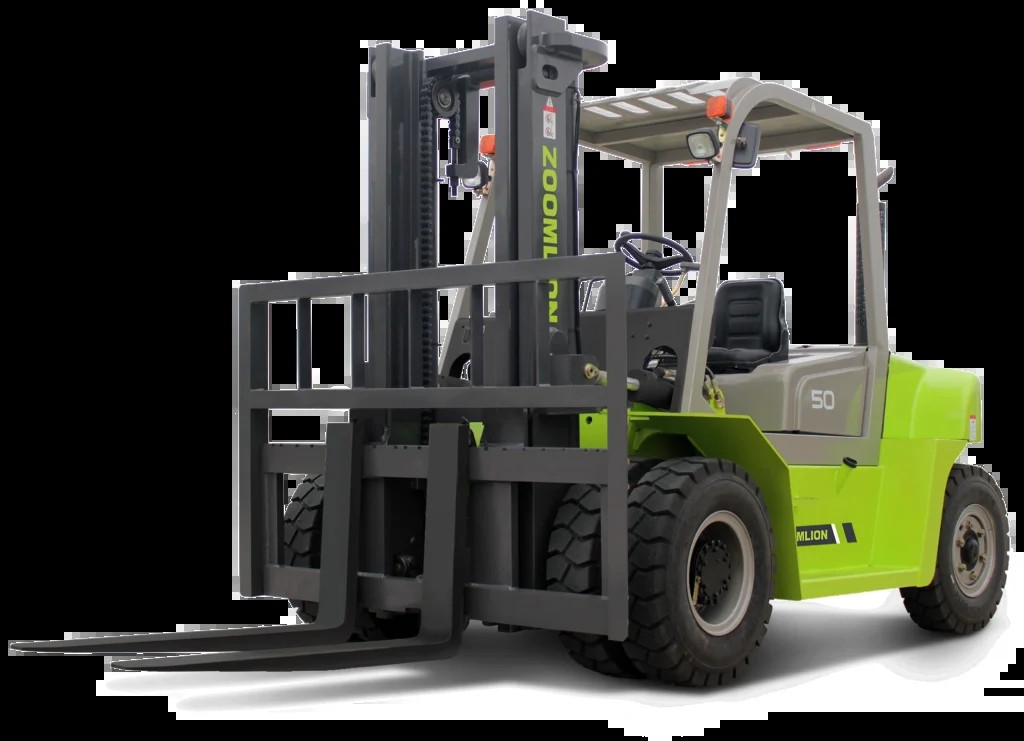
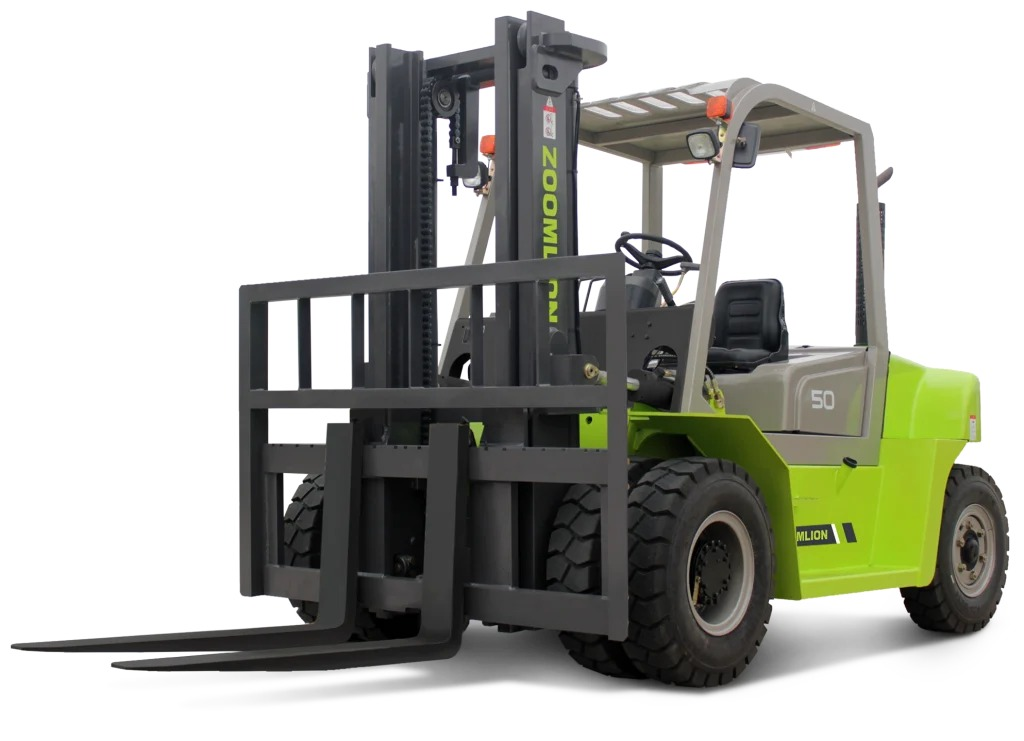
fix: hero boşluğu, kırık ürün linkleri, forklift görseli; tüm sitelerde 2. telefon hattı
- Hero: grid items-center -> items-start + üst padding azaltıldı (menü
  altında büyük boş alan kalma sorunu düzeltildi)
- Ürün kartları /${slug} gibi var olmayan sayfalara linkleniyordu (404);
  artık /urunler#slug çapa linkine yönleniyor, gerçek iç linkleme sağlandı
  (HizmetlerBolumu ve Hakkımızda sayfasına da CTA linkleri eklendi)
- pt-forklift.jpg: kaynak WebP şeffaf zemini JPEG'e aktarılırken siyah
  dolgu olmuştu, temiz beyaz zeminle yeniden oluşturuldu
- Tüm sitelerde (paylaşımlı tema + 9 bespoke tema + TicariCerceve fallback)
  iki sabit Artı Platform hattı (0530 551 89 61 + 0532 172 89 43) birlikte
  gösteriliyor; bandirmamanlift.net'teki yanlış telefon (0533) düzeltildi

diff --git a/src/components/temalar/canakkale.tsx b/src/components/temalar/canakkale.tsx
@@ -1,6 +1,7 @@
 import Image from "next/image";
 import { hostBloglari } from "@/lib/blog";
 import type { SiteIcerik } from "@/lib/siteler";
+import { ikinciTelefon } from "@/lib/siteler";
 import { TemaForm } from "./tema-form";
 import type { TemaModulu } from "./tipler";
 
@@ -18,7 +19,7 @@ function Cerceve({ site, aktif = "", children }: Parameters<TemaModulu["Cerceve"
         <link rel="stylesheet" href="https://fonts.googleapis.com/css2?family=Inter:wght@400;500;600;700&family=Montserrat:wght@600;700;800&display=swap" />
         <header className="sticky top-0 z-50 border-b-2 border-[#936e6a]/20 bg-[#f8f9fa]/80 shadow-sm backdrop-blur-md"><div className="mx-auto flex max-w-[1280px] items-center justify-between px-4 py-4 md:px-6"><a href="/" className="flex items-center gap-3"><Image src="/media/logo/logo.png" alt={`${site.h1} logosu`} width={145} height={40} className="h-10 w-auto object-contain" /><span className="hidden font-['Montserrat'] text-[19px] font-extrabold text-[#1A1C1E] sm:block">Çanakkale Platform</span></a><nav className="hidden items-center gap-1 lg:flex">{nav.map(([h, e]) => <a key={h} href={h} className={`border-b-2 px-4 py-3 text-[14px] font-bold ${aktif === h ? "border-[#ed1c24] text-[#bb0013]" : "border-transparent text-[#595c5f] hover:text-[#1A1C1E]"}`}>{e}</a>)}</nav><a href={`tel:${site.telefon}`} className="rounded-[2px] border-b-2 border-[#93000d] bg-[#ed1c24] px-5 py-3 text-[14px] font-bold text-white">Saha Hattı</a></div></header>
         <main>{children}</main>
-        <footer className="border-t-4 border-[#ed1c24] bg-[#1A1C1E] px-6 py-14 text-white"><div className="mx-auto grid max-w-[1280px] gap-10 md:grid-cols-3"><div><h2 className="font-['Montserrat'] text-[24px] font-bold">Çanakkale Platform</h2><p className="mt-4 text-[14px] leading-6 text-[#c4c7ca]">{site.uzmanlik} için endüstriyel kiralama ve sevkiyat planı.</p></div><div><h3 className="font-bold uppercase tracking-[0.1em] text-[#ed1c24]">Hızlı Erişim</h3><div className="mt-4 grid grid-cols-2 gap-3 text-[14px]">{nav.slice(1).map(([h, e]) => <a key={h} href={h}>{e}</a>)}<a href={site.anaSite.url}>{site.anaSite.ad}</a></div></div><div><h3 className="font-bold uppercase tracking-[0.1em] text-[#ed1c24]">İletişim</h3><a className="mt-4 flex gap-3" href={`tel:${site.telefon}`}><Ikon ad="telefon" />{site.telefonGosterim}</a><a className="mt-3 flex gap-3 break-all" href={`mailto:${site.eposta}`}><Ikon ad="posta" />{site.eposta}</a></div></div><div className="mx-auto mt-8 max-w-7xl border-t border-white/10 pt-5 text-center text-xs text-white/50"><a href="https://www.saygitech.com" target="_blank" rel="noopener noreferrer" className="hover:text-white/80">Web Yazılım ve Tasarım: SAYGITECH</a></div></footer>
+        <footer className="border-t-4 border-[#ed1c24] bg-[#1A1C1E] px-6 py-14 text-white"><div className="mx-auto grid max-w-[1280px] gap-10 md:grid-cols-3"><div><h2 className="font-['Montserrat'] text-[24px] font-bold">Çanakkale Platform</h2><p className="mt-4 text-[14px] leading-6 text-[#c4c7ca]">{site.uzmanlik} için endüstriyel kiralama ve sevkiyat planı.</p></div><div><h3 className="font-bold uppercase tracking-[0.1em] text-[#ed1c24]">Hızlı Erişim</h3><div className="mt-4 grid grid-cols-2 gap-3 text-[14px]">{nav.slice(1).map(([h, e]) => <a key={h} href={h}>{e}</a>)}<a href={site.anaSite.url}>{site.anaSite.ad}</a></div></div><div><h3 className="font-bold uppercase tracking-[0.1em] text-[#ed1c24]">İletişim</h3><a className="mt-4 flex gap-3" href={`tel:${site.telefon}`}><Ikon ad="telefon" />{site.telefonGosterim}</a>{ikinciTelefon(site) && (<a className="mt-3 flex gap-3" href={`tel:${ikinciTelefon(site)!.telefon}`}><Ikon ad="telefon" />{ikinciTelefon(site)!.telefonGosterim}</a>)}<a className="mt-3 flex gap-3 break-all" href={`mailto:${site.eposta}`}><Ikon ad="posta" />{site.eposta}</a></div></div><div className="mx-auto mt-8 max-w-7xl border-t border-white/10 pt-5 text-center text-xs text-white/50"><a href="https://www.saygitech.com" target="_blank" rel="noopener noreferrer" className="hover:text-white/80">Web Yazılım ve Tasarım: SAYGITECH</a></div></footer>
         <a href={`tel:${site.telefon}`} aria-label="Çanakkale Platform'u ara" className="fixed bottom-6 right-6 z-40 flex h-14 w-14 items-center justify-center rounded-[8px] bg-[#ed1c24] text-white shadow-xl"><Ikon ad="telefon" /></a>
     </div>;
 }
@@ -26,6 +27,6 @@ function AnaSayfa({ site }: { site: SiteIcerik }) { return <><section className=
 function Baslik({ ust, baslik, metin }: { ust: string; baslik: string; metin?: string }) { return <section className="relative overflow-hidden bg-[#1A1C1E] px-6 py-20 text-white"><div className="absolute right-0 top-0 h-full w-1/3 -skew-x-12 bg-[#ed1c24]/15" /><div className="relative mx-auto max-w-[1280px]"><p className="text-[13px] font-bold tracking-[0.14em] text-[#ffb4ab]">{ust}</p><h1 className="mt-4 max-w-4xl font-['Montserrat'] text-[42px] font-extrabold leading-[50px]">{baslik}</h1>{metin && <p className="mt-5 max-w-3xl text-[18px] leading-8 text-[#c4c7ca]">{metin}</p>}</div></section>; }
 function Hakkimizda({ site }: { site: SiteIcerik }) { return <main className="mx-auto w-full max-w-[1280px] px-6 py-24"><section className="grid items-center gap-12 lg:grid-cols-2"><div><span className="text-[12px] font-bold tracking-[0.08em] text-[#ed1c24]">HAKKIMIZDA</span><h1 className="mt-4 font-['Montserrat'] text-[48px] font-extrabold leading-[56px] text-[#1A1C1E]">Endüstriyel Güven ve Yerel Tecrübe.</h1><p className="mt-6 text-[18px] leading-8 text-[#5e3f3c]">{site.paragraflar[0]}</p>{site.paragraflar.slice(1).map((p) => <p key={p} className="mt-5 leading-7 text-[#5e3f3c]">{p}</p>)}<ul className="mt-7 grid gap-4 sm:grid-cols-2">{site.hizmetler.map((h) => <li key={h} className="flex gap-3 border-l-4 border-[#ed1c24] bg-[#f3f4f5] p-4 font-semibold"><Ikon ad="onay" className="h-5 w-5 text-[#ed1c24]" />{h}</li>)}</ul></div><div className="relative min-h-[600px] overflow-hidden rounded-[4px]"><Image src="/media/guvenli-calisma.png" alt="Çanakkale güvenli saha operasyonu" fill sizes="50vw" className="object-cover" /><div className="absolute bottom-0 left-0 right-0 border-t-4 border-[#ed1c24] bg-[#1A1C1E] p-6 text-white"><strong className="font-['Montserrat'] uppercase">Planlı Operasyon • Doğrulanmış Kapsam</strong></div></div></section></main>; }
 function Urunler() { return <main className="mx-auto w-full max-w-[1280px] px-6 py-12"><header className="mb-12 max-w-4xl"><span className="text-[12px] font-bold tracking-[0.08em] text-[#ed1c24]">ÜRÜNLERİMİZ</span><h1 className="mt-4 font-['Montserrat'] text-[48px] font-extrabold leading-[56px] text-[#1A1C1E]">Saha Odaklı Endüstriyel Kiralama Çözümleri</h1></header><section className="grid grid-cols-1 gap-6 md:grid-cols-12">{urunler.map((u, i) => <article key={u.baslik} className={`group flex border border-[#1A1C1E] bg-white transition-colors hover:border-[#ed1c24] ${i === 0 ? "flex-col md:col-span-8 md:flex-row" : i === 1 ? "flex-col md:col-span-4" : "flex-col md:col-span-12 md:flex-row-reverse"}`}><div className={`relative ${i === 1 ? "h-64" : "min-h-[340px] flex-1"}`}><Image src={u.gorsel} alt={u.baslik} fill sizes={i === 1 ? "33vw" : "60vw"} className="object-cover" /></div><div className="flex flex-1 flex-col justify-center p-8"><span className="font-['JetBrains_Mono'] text-[12px] font-bold text-[#ed1c24]">0{i + 1} / SAHA EKİPMANI</span><h2 className="mt-3 font-['Montserrat'] text-[24px] font-bold text-[#1A1C1E] md:text-[32px]">{u.baslik}</h2><p className="mt-4 leading-7 text-[#5e3f3c]">{u.metin}</p><div className="mt-6 grid grid-cols-2 gap-4 border-y border-[#d9dadb] py-4 font-['JetBrains_Mono'] text-[12px]"><span>YÜKSEKLİK<br /><b>SAHAYA GÖRE</b></span><span>UYGUNLUK<br /><b>TEKLİFTE TEYİT</b></span></div><a href={`/${u.slug}`} className="mt-7 inline-flex w-fit rounded-[2px] bg-[#ed1c24] px-7 py-4 font-bold text-white">Detay Sayfası</a></div></article>)}</section></main>; }
-function Iletisim({ site }: { site: SiteIcerik }) { const bolgeler = site.bolge.split(",").map((x) => x.trim()); return <><Baslik ust="İLETİŞİM" baslik="Saha İletişim & Talep" metin="Teknik görev bilgilerini paylaşın; makine, nakliye ve saha giriş kapsamını netleştirelim." /><section className="px-6 py-24"><div className="mx-auto grid max-w-[1280px] gap-10 lg:grid-cols-[1fr_1.5fr]"><aside className="rounded-[4px] bg-[#1A1C1E] p-8 text-white"><h2 className="font-['Montserrat'] text-[24px] font-bold">Acil Saha Destek & Kiralama</h2><a className="mt-8 flex gap-3 text-[20px]" href={`tel:${site.telefon}`}><Ikon ad="telefon" />{site.telefonGosterim}</a><a className="mt-5 flex gap-3 break-all" href={`mailto:${site.eposta}`}><Ikon ad="posta" />{site.eposta}</a><p className="mt-5 flex gap-3 text-[#c4c7ca]"><Ikon ad="konum" />{site.bolge}</p><p className="mt-5 flex gap-3 text-[#c4c7ca]"><Ikon ad="saat" />Hafta içi 08.00–18.00</p></aside><div className="rounded-[4px] border border-[#d9dadb] bg-white p-8"><h2 className="mb-6 font-['Montserrat'] text-[26px] font-bold">Saha İhtiyaç Formu</h2><TemaForm eposta={site.eposta} konu={`Çanakkale Platform Teklif Talebi — ${site.h1}`} opsiyonlar={bolgeler} cls={{etiket:"mb-2 block text-[14px] font-bold text-[#1A1C1E]",alan:"w-full rounded-[2px] border border-[#936e6a] bg-[#f8f9fa] p-3 outline-none focus:border-[#ed1c24]",buton:"w-full rounded-[2px] bg-[#ed1c24] px-8 py-4 font-bold text-white",izgara:"grid gap-5 md:grid-cols-2"}} /></div></div></section></>; }
+function Iletisim({ site }: { site: SiteIcerik }) { const bolgeler = site.bolge.split(",").map((x) => x.trim()); return <><Baslik ust="İLETİŞİM" baslik="Saha İletişim & Talep" metin="Teknik görev bilgilerini paylaşın; makine, nakliye ve saha giriş kapsamını netleştirelim." /><section className="px-6 py-24"><div className="mx-auto grid max-w-[1280px] gap-10 lg:grid-cols-[1fr_1.5fr]"><aside className="rounded-[4px] bg-[#1A1C1E] p-8 text-white"><h2 className="font-['Montserrat'] text-[24px] font-bold">Acil Saha Destek & Kiralama</h2><a className="mt-8 flex gap-3 text-[20px]" href={`tel:${site.telefon}`}><Ikon ad="telefon" />{site.telefonGosterim}</a>{ikinciTelefon(site) && (<a className="mt-3 flex gap-3 text-[18px]" href={`tel:${ikinciTelefon(site)!.telefon}`}><Ikon ad="telefon" />{ikinciTelefon(site)!.telefonGosterim}</a>)}<a className="mt-5 flex gap-3 break-all" href={`mailto:${site.eposta}`}><Ikon ad="posta" />{site.eposta}</a><p className="mt-5 flex gap-3 text-[#c4c7ca]"><Ikon ad="konum" />{site.bolge}</p><p className="mt-5 flex gap-3 text-[#c4c7ca]"><Ikon ad="saat" />Hafta içi 08.00–18.00</p></aside><div className="rounded-[4px] border border-[#d9dadb] bg-white p-8"><h2 className="mb-6 font-['Montserrat'] text-[26px] font-bold">Saha İhtiyaç Formu</h2><TemaForm eposta={site.eposta} konu={`Çanakkale Platform Teklif Talebi — ${site.h1}`} opsiyonlar={bolgeler} cls={{etiket:"mb-2 block text-[14px] font-bold text-[#1A1C1E]",alan:"w-full rounded-[2px] border border-[#936e6a] bg-[#f8f9fa] p-3 outline-none focus:border-[#ed1c24]",buton:"w-full rounded-[2px] bg-[#ed1c24] px-8 py-4 font-bold text-white",izgara:"grid gap-5 md:grid-cols-2"}} /></div></div></section></>; }
 function BlogListe({ site }: { site: SiteIcerik }) { const yazilar = hostBloglari(site.host); const adimlar = ["İşi Geometrik Olarak Tarif Edin", "Makine Sınıfını İşin Hareketine Göre Seçin", "Zemin Uygunluğunu Önden Teyit Edin"]; return <main className="pb-24"><section className="mx-auto grid max-w-[1280px] items-center gap-6 px-6 py-12 md:grid-cols-12 md:py-24"><div className="md:col-span-7"><span className="text-[12px] font-bold tracking-[0.08em] text-[#ed1c24]">BLOG VE REHBER</span><h1 className="mt-4 font-['Montserrat'] text-[36px] font-extrabold leading-tight text-[#1A1C1E] md:text-[48px]">Saha Planlaması, Güvenlik ve Makine Seçimi</h1><p className="mt-5 max-w-2xl text-[18px] leading-7 text-[#5e3f3c]">Çanakkale&apos;de doğru platform sınıfı ve güvenli saha planı için karar rehberi.</p></div><div className="relative min-h-[360px] md:col-span-5"><Image src={yazilar[0]?.gorsel ?? "/media/saha-hero.png"} alt={yazilar[0]?.gorselAlt ?? "Çanakkale saha rehberi"} fill sizes="40vw" className="object-cover" /></div></section><section className="border-y border-[#936e6a]/20 bg-[#f3f4f5] py-16"><div className="mx-auto max-w-[1280px] px-6"><h2 className="inline-block border-b-2 border-[#1A1C1E] pb-4 font-['Montserrat'] text-[32px] font-bold text-[#1A1C1E]">Karar Rehberi</h2><div className="mt-10 space-y-0">{adimlar.map((a, i) => { const y = yazilar[i]; return <article key={a} className="grid gap-6 border-b border-[#936e6a]/20 py-8 md:grid-cols-[100px_1fr_220px]"><span className="font-['Montserrat'] text-[48px] font-extrabold text-[#e1e3e4]">0{i + 1}</span><div><h3 className="font-['Montserrat'] text-[18px] font-semibold uppercase tracking-tight text-[#1A1C1E]">{a}</h3><p className="mt-3 leading-7 text-[#5e3f3c]">{y?.ozet ?? site.paragraflar[i]}</p></div>{y && <a href={`/blog/${y.slug}`} className="self-center justify-self-start rounded-[2px] border-2 border-[#1A1C1E] px-5 py-3 font-bold text-[#1A1C1E] md:justify-self-end">Yazıyı Oku</a>}</article>; })}</div></div></section><section className="mx-auto max-w-[1280px] px-6 py-16"><h2 className="mb-10 inline-block border-b-2 border-[#1A1C1E] pb-4 font-['Montserrat'] text-[28px] font-bold text-[#1A1C1E]">Tüm Yazılar</h2><div className="grid gap-7 md:grid-cols-2 lg:grid-cols-3">{yazilar.map((y) => <article key={y.slug} className="group overflow-hidden rounded-[4px] border border-[#d9dadb] bg-white"><div className="relative h-52"><Image src={y.gorsel} alt={y.gorselAlt} fill sizes="33vw" className="object-cover" /></div><div className="border-t-4 border-[#ed1c24] p-6"><span className="text-[12px] font-bold uppercase tracking-[0.1em] text-[#bb0013]">{y.kategori}</span><h3 className="mt-3 font-['Montserrat'] text-[20px] font-bold text-[#1A1C1E]">{y.baslik}</h3><p className="mt-3 line-clamp-3 text-[14px] leading-6 text-[#5e3f3c]">{y.ozet}</p><a href={`/blog/${y.slug}`} className="mt-5 inline-flex items-center gap-2 font-bold text-[#bb0013]">Yazıyı Oku <Ikon ad="ok" /></a></div></article>)}</div></section></main>; }
 export const canakkaleTema: TemaModulu = { Cerceve, AnaSayfa, sayfalar: { hakkimizda: Hakkimizda, iletisim: Iletisim, urunler: Urunler }, BlogListe };

diff --git a/src/components/temalar/bozuyuk.tsx b/src/components/temalar/bozuyuk.tsx
@@ -1,6 +1,7 @@
 import Image from "next/image";
 import { hostBloglari } from "@/lib/blog";
 import type { SiteIcerik } from "@/lib/siteler";
+import { ikinciTelefon } from "@/lib/siteler";
 import { TemaForm } from "./tema-form";
 import type { TemaModulu } from "./tipler";
 
@@ -18,7 +19,7 @@ function Cerceve({ site, aktif = "", children }: Parameters<TemaModulu["Cerceve"
         <link rel="stylesheet" href="https://fonts.googleapis.com/css2?family=Literata:wght@500;600;700&family=Nunito+Sans:wght@400;500;600;700&display=swap" />
         <header className="sticky top-0 z-50 bg-[#faf6f0]/95 shadow-[0_4px_20px_rgba(46,50,48,0.06)] backdrop-blur-md"><div className="mx-auto flex max-w-7xl items-center justify-between px-5 py-4 md:px-8"><a href="/" className="flex items-center gap-3"><Image src="/media/logo/4.png" alt={`${site.h1} logosu`} width={48} height={48} className="h-10 w-auto object-contain" /><span className="font-['Literata'] text-[20px] font-bold text-[#4a7c59]">Bozüyük Platform</span></a><nav className="hidden items-center gap-3 lg:flex">{nav.map(([h, e]) => <a key={h} href={h} className={`rounded-[8px] px-3 py-2 font-semibold ${aktif === h ? "bg-[#c8e8d0] text-[#2a6038]" : "text-[#4a4e4a] hover:bg-[#f5f1ea] hover:text-[#4a7c59]"}`}>{e}</a>)}</nav><a href="/iletisim" className="rounded-[8px] bg-[#4a7c59] px-5 py-3 font-bold text-white">Teklif Alın</a></div></header>
         <main>{children}</main>
-        <footer className="bg-[#2e3230] px-6 py-16 text-[#f5f0e8]"><div className="mx-auto grid max-w-7xl gap-10 md:grid-cols-3"><div><h2 className="font-['Literata'] text-[24px] font-bold">Bozüyük Platform</h2><p className="mt-4 leading-6 text-[#d4ccbf]">{site.uzmanlik} için yerel planlama ve doğrulanmış teklif.</p></div><div><h3 className="font-['Literata'] text-[18px] font-semibold text-[#8ecf9e]">Bağlantılar</h3><div className="mt-4 grid grid-cols-2 gap-3">{nav.slice(1).map(([h, e]) => <a key={h} href={h}>{e}</a>)}<a href={site.anaSite.url}>{site.anaSite.ad}</a></div></div><div><h3 className="font-['Literata'] text-[18px] font-semibold text-[#8ecf9e]">Bize Ulaşın</h3><a className="mt-4 flex gap-3" href={`tel:${site.telefon}`}><Ikon ad="telefon" />{site.telefonGosterim}</a><a className="mt-3 flex gap-3 break-all" href={`mailto:${site.eposta}`}><Ikon ad="posta" />{site.eposta}</a></div></div><div className="mx-auto mt-8 max-w-7xl border-t border-white/10 pt-5 text-center text-xs text-white/50"><a href="https://www.saygitech.com" target="_blank" rel="noopener noreferrer" className="hover:text-white/80">Web Yazılım ve Tasarım: SAYGITECH</a></div></footer>
+        <footer className="bg-[#2e3230] px-6 py-16 text-[#f5f0e8]"><div className="mx-auto grid max-w-7xl gap-10 md:grid-cols-3"><div><h2 className="font-['Literata'] text-[24px] font-bold">Bozüyük Platform</h2><p className="mt-4 leading-6 text-[#d4ccbf]">{site.uzmanlik} için yerel planlama ve doğrulanmış teklif.</p></div><div><h3 className="font-['Literata'] text-[18px] font-semibold text-[#8ecf9e]">Bağlantılar</h3><div className="mt-4 grid grid-cols-2 gap-3">{nav.slice(1).map(([h, e]) => <a key={h} href={h}>{e}</a>)}<a href={site.anaSite.url}>{site.anaSite.ad}</a></div></div><div><h3 className="font-['Literata'] text-[18px] font-semibold text-[#8ecf9e]">Bize Ulaşın</h3><a className="mt-4 flex gap-3" href={`tel:${site.telefon}`}><Ikon ad="telefon" />{site.telefonGosterim}</a>{ikinciTelefon(site) && (<a className="mt-3 flex gap-3" href={`tel:${ikinciTelefon(site)!.telefon}`}><Ikon ad="telefon" />{ikinciTelefon(site)!.telefonGosterim}</a>)}<a className="mt-3 flex gap-3 break-all" href={`mailto:${site.eposta}`}><Ikon ad="posta" />{site.eposta}</a></div></div><div className="mx-auto mt-8 max-w-7xl border-t border-white/10 pt-5 text-center text-xs text-white/50"><a href="https://www.saygitech.com" target="_blank" rel="noopener noreferrer" className="hover:text-white/80">Web Yazılım ve Tasarım: SAYGITECH</a></div></footer>
         <a href={`tel:${site.telefon}`} aria-label="Bozüyük Platform'u ara" className="fixed bottom-6 right-6 z-40 flex h-14 w-14 items-center justify-center rounded-full bg-[#4a7c59] text-white shadow-xl"><Ikon ad="telefon" /></a>
     </div>;
 }

diff --git a/src/components/temalar/bilecik.tsx b/src/components/temalar/bilecik.tsx
@@ -1,6 +1,7 @@
 import Image from "next/image";
 import { hostBloglari } from "@/lib/blog";
 import type { SiteIcerik } from "@/lib/siteler";
+import { ikinciTelefon } from "@/lib/siteler";
 import { TemaForm } from "./tema-form";
 import type { TemaModulu } from "./tipler";
 
@@ -28,7 +29,7 @@ function Cerceve({ site, aktif = "", children }: Parameters<TemaModulu["Cerceve"
         <link rel="stylesheet" href="https://fonts.googleapis.com/css2?family=EB+Garamond:wght@400;500;600;700;800&family=Manrope:wght@400;500;600;700&display=swap" />
         <header className="sticky top-0 z-50 border-b border-white/40 bg-[#faf5ee]/70 backdrop-blur-md"><div className="mx-auto flex max-w-[1440px] items-center justify-between px-6 py-4 md:px-8"><a href="/" className="font-['EB_Garamond'] text-[24px] font-extrabold tracking-tight text-[#3a302a]">Bilecik Platform Kiralama</a><nav className="hidden gap-6 md:flex">{nav.map(([h, e]) => <a key={h} href={h} className={`border-b-2 pb-1 text-[14px] font-bold transition-colors ${aktif === h ? "border-[#78706a] text-[#78706a]" : "border-transparent text-[#605850] hover:text-[#78706a]"}`}>{e}</a>)}</nav><div className="flex gap-4"><a href="/iletisim" className="hidden rounded-[8px] border border-[#d8d0c8] px-5 py-2.5 text-[14px] font-semibold md:block">Teklif Al</a><a href={`tel:${site.telefon}`} className="rounded-[8px] bg-[#c2652a] px-5 py-2.5 text-[14px] font-semibold text-white">Hemen Ara</a></div></div></header>
         <main>{children}</main>
-        <footer className="border-t border-[#504840]/20 bg-[#3a302a] px-8 py-24 text-[#faf5ee]"><div className="mx-auto flex max-w-[1440px] flex-col justify-between gap-12 md:flex-row"><div className="max-w-sm"><h2 className="font-['EB_Garamond'] text-[32px] font-bold text-[#f0a878]">Bilecik Platform</h2><p className="mt-4 text-[14px] leading-6 text-[#cec6be]">{site.uzmanlik} için doğrulanabilir saha planı ve teklif.</p></div><div className="grid grid-cols-2 gap-x-16 gap-y-3 text-[14px] text-[#cec6be]">{nav.slice(1).map(([h, e]) => <a href={h} key={h} className="hover:text-white">{e}</a>)}<a href={site.anaSite.url}>{site.anaSite.ad}</a></div><div><a href={`tel:${site.telefon}`} className="flex gap-3"><Ikon ad="telefon" />{site.telefonGosterim}</a><a href={`mailto:${site.eposta}`} className="mt-3 flex gap-3 break-all"><Ikon ad="posta" />{site.eposta}</a></div></div><div className="mx-auto mt-8 max-w-7xl border-t border-white/10 pt-5 text-center text-xs text-white/50"><a href="https://www.saygitech.com" target="_blank" rel="noopener noreferrer" className="hover:text-white/80">Web Yazılım ve Tasarım: SAYGITECH</a></div></footer>
+        <footer className="border-t border-[#504840]/20 bg-[#3a302a] px-8 py-24 text-[#faf5ee]"><div className="mx-auto flex max-w-[1440px] flex-col justify-between gap-12 md:flex-row"><div className="max-w-sm"><h2 className="font-['EB_Garamond'] text-[32px] font-bold text-[#f0a878]">Bilecik Platform</h2><p className="mt-4 text-[14px] leading-6 text-[#cec6be]">{site.uzmanlik} için doğrulanabilir saha planı ve teklif.</p></div><div className="grid grid-cols-2 gap-x-16 gap-y-3 text-[14px] text-[#cec6be]">{nav.slice(1).map(([h, e]) => <a href={h} key={h} className="hover:text-white">{e}</a>)}<a href={site.anaSite.url}>{site.anaSite.ad}</a></div><div><a href={`tel:${site.telefon}`} className="flex gap-3"><Ikon ad="telefon" />{site.telefonGosterim}</a>{ikinciTelefon(site) && (<a href={`tel:${ikinciTelefon(site)!.telefon}`} className="mt-3 flex gap-3"><Ikon ad="telefon" />{ikinciTelefon(site)!.telefonGosterim}</a>)}<a href={`mailto:${site.eposta}`} className="mt-3 flex gap-3 break-all"><Ikon ad="posta" />{site.eposta}</a></div></div><div className="mx-auto mt-8 max-w-7xl border-t border-white/10 pt-5 text-center text-xs text-white/50"><a href="https://www.saygitech.com" target="_blank" rel="noopener noreferrer" className="hover:text-white/80">Web Yazılım ve Tasarım: SAYGITECH</a></div></footer>
         <a href={`tel:${site.telefon}`} aria-label="Bilecik Platform'u ara" className="fixed bottom-6 right-6 z-40 flex h-14 w-14 items-center justify-center rounded-full bg-[#c2652a] text-white shadow-xl"><Ikon ad="telefon" /></a>
     </div>;
 }

diff --git a/src/components/temalar/manisaforklift.tsx b/src/components/temalar/manisaforklift.tsx
@@ -1,6 +1,7 @@
 import Image from "next/image";
 import type { ReactNode } from "react";
 import type { SiteIcerik } from "@/lib/siteler";
+import { ikinciTelefon } from "@/lib/siteler";
 import { hostBloglari } from "@/lib/blog";
 import type { TemaModulu } from "./tipler";
 import { ForkliftTalepForm } from "./manisaforklift-form";
@@ -49,7 +50,7 @@ function Cerceve({ site, aktif, children }: { site: SiteIcerik; aktif?: string; 
                     <div className="flex flex-col gap-4"><div className={`${mo} text-[24px] text-[#FBBF24] font-extrabold`}>{site.h1.toUpperCase()}</div><p className="text-white/50 text-sm">Ağır Lojistikte Hassasiyet.</p></div>
                     <div><h4 className={`${mo} text-[16px] text-[#FBBF24] font-bold mb-4`}>Filo Çözümleri</h4><ul className="space-y-3 text-[15px]"><li><a className="text-white/60 hover:text-white transition-colors" href="/elektrikli-forklift-kiralama">Elektrikli Filo</a></li><li><a className="text-white/60 hover:text-white transition-colors" href="/dizel-forklift-kiralama">Dizel Güç</a></li></ul></div>
                     <div><h4 className={`${mo} text-[16px] text-[#FBBF24] font-bold mb-4`}>Şirket</h4><ul className="space-y-3 text-[15px]"><li><a className="text-white/60 hover:text-white transition-colors" href="/hakkimizda">Hakkımızda</a></li><li><a className="text-white/60 hover:text-white transition-colors" href="/blog">Blog</a></li><li><a className="text-white/60 hover:text-white transition-colors" href="/gizlilik-politikasi">Gizlilik Politikası</a></li></ul></div>
-                    <div><h4 className={`${mo} text-[16px] text-[#FBBF24] font-bold mb-4`}>İletişim</h4><a className="text-white/60 hover:text-white transition-colors flex items-center gap-2 text-[15px]" href={`tel:${site.telefon}`}><Ikon d={IK.phone} className="w-4 h-4" box={18} /> {site.telefonGosterim}</a><a className="text-white/60 hover:text-white transition-colors flex items-center gap-2 text-[15px] mt-3 break-all" href={`mailto:${site.eposta}`}><Ikon d={IK.mail} className="w-4 h-4" box={18} /> {site.eposta}</a></div>
+                    <div><h4 className={`${mo} text-[16px] text-[#FBBF24] font-bold mb-4`}>İletişim</h4><a className="text-white/60 hover:text-white transition-colors flex items-center gap-2 text-[15px]" href={`tel:${site.telefon}`}><Ikon d={IK.phone} className="w-4 h-4" box={18} /> {site.telefonGosterim}</a>{ikinciTelefon(site) && (<a className="text-white/60 hover:text-white transition-colors flex items-center gap-2 text-[15px] mt-3" href={`tel:${ikinciTelefon(site)!.telefon}`}><Ikon d={IK.phone} className="w-4 h-4" box={18} /> {ikinciTelefon(site)!.telefonGosterim}</a>)}<a className="text-white/60 hover:text-white transition-colors flex items-center gap-2 text-[15px] mt-3 break-all" href={`mailto:${site.eposta}`}><Ikon d={IK.mail} className="w-4 h-4" box={18} /> {site.eposta}</a></div>
                 </div>
                 <div className="max-w-[1280px] mx-auto px-4 md:px-12 border-t border-white/10 mt-10 pt-8 text-center"><p className="text-white/40 text-sm">© {new Date().getFullYear()} {site.h1}. Ağır Lojistikte Hassasiyet · {site.anaSite.ad} ağının bir parçasıdır.</p></div>
             <div className="mx-auto mt-8 max-w-7xl border-t border-white/10 pt-5 text-center text-xs text-white/50">

diff --git a/src/components/temalar/izmirforklift.tsx b/src/components/temalar/izmirforklift.tsx
@@ -1,6 +1,7 @@
 import Image from "next/image";
 import type { ReactNode } from "react";
 import type { SiteIcerik } from "@/lib/siteler";
+import { ikinciTelefon } from "@/lib/siteler";
 import { hostBloglari } from "@/lib/blog";
 import type { TemaModulu } from "./tipler";
 import { IzmirHizliTeklif, IzmirIletisimForm } from "./izmir-form";
@@ -64,7 +65,7 @@ function Cerceve({ site, aktif, children }: { site: SiteIcerik; aktif?: string; 
                     <div><div className={`${mo} text-[22px] text-[#f68b1e] font-extrabold mb-4`}>{site.h1}</div><p className="text-white/50 text-sm">{site.uzmanlik} odağında güvenilir forklift ve platform kiralama.</p></div>
                     <div><h4 className={`${mo} text-[16px] text-[#f68b1e] font-bold mb-4`}>Hizmetler</h4><ul className="space-y-3 text-[15px]"><li><a className="text-white/60 hover:text-white" href="/dizel-forklift-kiralama">Kiralık Forklift</a></li><li><a className="text-white/60 hover:text-white" href="/urunler">Platform Hizmetleri</a></li></ul></div>
                     <div><h4 className={`${mo} text-[16px] text-[#f68b1e] font-bold mb-4`}>Kurumsal</h4><ul className="space-y-3 text-[15px]"><li><a className="text-white/60 hover:text-white" href="/hakkimizda">Hakkımızda</a></li><li><a className="text-white/60 hover:text-white" href="/blog">Blog</a></li><li><a className="text-white/60 hover:text-white" href="/gizlilik-politikasi">KVKK ve Gizlilik</a></li></ul></div>
-                    <div><h4 className={`${mo} text-[16px] text-[#f68b1e] font-bold mb-4`}>İletişim</h4><a className="text-white/60 hover:text-white flex items-center gap-2 text-[15px]" href={`tel:${site.telefon}`}><Ikon d={IK.phone} className="w-4 h-4" box={18} /> {site.telefonGosterim}</a><a className="text-white/60 hover:text-white flex items-center gap-2 text-[15px] mt-3 break-all" href={`mailto:${site.eposta}`}><Ikon d={IK.mail} className="w-4 h-4" box={18} /> {site.eposta}</a></div>
+                    <div><h4 className={`${mo} text-[16px] text-[#f68b1e] font-bold mb-4`}>İletişim</h4><a className="text-white/60 hover:text-white flex items-center gap-2 text-[15px]" href={`tel:${site.telefon}`}><Ikon d={IK.phone} className="w-4 h-4" box={18} /> {site.telefonGosterim}</a>{ikinciTelefon(site) && (<a className="text-white/60 hover:text-white flex items-center gap-2 text-[15px] mt-3" href={`tel:${ikinciTelefon(site)!.telefon}`}><Ikon d={IK.phone} className="w-4 h-4" box={18} /> {ikinciTelefon(site)!.telefonGosterim}</a>)}<a className="text-white/60 hover:text-white flex items-center gap-2 text-[15px] mt-3 break-all" href={`mailto:${site.eposta}`}><Ikon d={IK.mail} className="w-4 h-4" box={18} /> {site.eposta}</a></div>
                 </div>
                 <div className="max-w-[1280px] mx-auto px-4 md:px-8 border-t border-white/10 mt-10 pt-8 text-center"><p className="text-white/40 text-sm">© {new Date().getFullYear()} {site.h1}. Tüm Hakları Saklıdır · {site.anaSite.ad} ağının bir parçasıdır. · <a href="https://www.saygitech.com" target="_blank" rel="noopener noreferrer" className="hover:text-white/70 transition-colors">Web Tasarım &amp; Yazılım: SAYGITECH</a></p></div>
             <div className="mx-auto mt-8 max-w-7xl border-t border-white/10 pt-5 text-center text-xs text-white/50">

diff --git a/src/components/temalar/eklemli.tsx b/src/components/temalar/eklemli.tsx
@@ -1,6 +1,7 @@
 import Image from "next/image";
 import type { ReactNode } from "react";
 import type { SiteIcerik } from "@/lib/siteler";
+import { ikinciTelefon } from "@/lib/siteler";
 import { hostBloglari } from "@/lib/blog";
 import type { TemaModulu } from "./tipler";
 import { EklemliHizliTeklif, EklemliIletisimForm } from "./eklemli-form";
@@ -48,7 +49,7 @@ function Cerceve({ site, aktif, children }: { site: SiteIcerik; aktif?: string; 
                     <div><div className="text-[22px] font-extrabold text-white mb-4">{site.h1.toUpperCase()}</div><p className="text-white/50 text-sm">{site.uzmanlik} için engel aşan eklemli ve teleskopik platform çözümleri.</p></div>
                     <div><h4 className="text-[16px] font-bold text-[#8ea2ff] mb-4">Makineler</h4><ul className="space-y-3 text-[15px]"><li><a className="text-white/60 hover:text-white" href="/dizel-eklemli-platform-kiralama">Dizel Eklemli</a></li><li><a className="text-white/60 hover:text-white" href="/elektrikli-eklemli-platform-kiralama">Elektrikli Eklemli</a></li><li><a className="text-white/60 hover:text-white" href="/urunler">Tüm Makineler</a></li></ul></div>
                     <div><h4 className="text-[16px] font-bold text-[#8ea2ff] mb-4">Kurumsal</h4><ul className="space-y-3 text-[15px]"><li><a className="text-white/60 hover:text-white" href="/hakkimizda">Hakkımızda</a></li><li><a className="text-white/60 hover:text-white" href="/blog">Blog</a></li><li><a className="text-white/60 hover:text-white" href="/gizlilik-politikasi">Gizlilik</a></li></ul></div>
-                    <div><h4 className="text-[16px] font-bold text-[#8ea2ff] mb-4">İletişim</h4><a className="text-white/60 hover:text-white flex items-center gap-2 text-[15px]" href={`tel:${site.telefon}`}><Ikon d={IK.phone} className="w-4 h-4" box={18} /> {site.telefonGosterim}</a><a className="text-white/60 hover:text-white flex items-center gap-2 text-[15px] mt-3 break-all" href={`mailto:${site.eposta}`}><Ikon d={IK.mail} className="w-4 h-4" box={18} /> {site.eposta}</a></div>
+                    <div><h4 className="text-[16px] font-bold text-[#8ea2ff] mb-4">İletişim</h4><a className="text-white/60 hover:text-white flex items-center gap-2 text-[15px]" href={`tel:${site.telefon}`}><Ikon d={IK.phone} className="w-4 h-4" box={18} /> {site.telefonGosterim}</a>{ikinciTelefon(site) && (<a className="text-white/60 hover:text-white flex items-center gap-2 text-[15px] mt-3" href={`tel:${ikinciTelefon(site)!.telefon}`}><Ikon d={IK.phone} className="w-4 h-4" box={18} /> {ikinciTelefon(site)!.telefonGosterim}</a>)}<a className="text-white/60 hover:text-white flex items-center gap-2 text-[15px] mt-3 break-all" href={`mailto:${site.eposta}`}><Ikon d={IK.mail} className="w-4 h-4" box={18} /> {site.eposta}</a></div>
                 </div>
                 <div className="max-w-[1280px] mx-auto px-4 md:px-8 border-t border-white/10 mt-10 pt-8 text-center"><p className="text-white/40 text-sm">© {new Date().getFullYear()} {site.h1}. {site.anaSite.ad} ağının bir parçasıdır.</p></div>
             <div className="mx-auto mt-8 max-w-7xl border-t border-white/10 pt-5 text-center text-xs text-white/50">

diff --git a/src/components/temalar/paylasilan/bolumler.tsx b/src/components/temalar/paylasilan/bolumler.tsx
@@ -1,5 +1,6 @@
 import Image from "next/image";
 import type { SiteIcerik } from "@/lib/siteler";
+import { ikinciTelefon } from "@/lib/siteler";
 import { urunKatalogu } from "@/lib/urun-katalogu";
 import { TemaForm, type TemaFormClass } from "../tema-form";
 import { Ikon } from "./ikonlar";
@@ -29,6 +30,10 @@ export function HizmetlerBolumu({ site }: { site: SiteIcerik }) {
                     </article>
                 ))}
             </div>
+            <a href="/urunler" className="mt-8 inline-flex items-center gap-2 font-bold text-accent hover:text-accent-hover">
+                Tüm makine kategorilerini görün
+                <Ikon ad="ok" className="h-4 w-4" />
+            </a>
         </section>
     );
 }
@@ -48,7 +53,7 @@ export function UrunlerBolumu({ site }: { site: SiteIcerik }) {
             </div>
             <div className="grid gap-8 md:grid-cols-2 lg:grid-cols-3">
                 {urunKatalogu.map((urun) => (
-                    <a key={urun.ad} href={`/${urun.slug}`} className="group overflow-hidden rounded-2xl border border-border bg-elevated">
+                    <a key={urun.ad} id={urun.slug} href={`/urunler#${urun.slug}`} className="group scroll-mt-24 overflow-hidden rounded-2xl border border-border bg-elevated">
                         {/* Ürün görselleri farklı en-boy oranlarına sahip (bkz. urun-katalogu.ts);
                             object-contain + sabit yükseklikli nötr zemin, hiçbir görseli kırpmadan
                             tam sığdırır. */}
@@ -98,8 +103,10 @@ export function BolgeBolumu({ site }: { site: SiteIcerik }) {
 
 export function IletisimKarti({ site }: { site: SiteIcerik }) {
     const bolgeler = site.bolge.split(",").map((s) => s.trim());
+    const digerHat = ikinciTelefon(site);
     const kartlar: [string, "telefon" | "posta" | "konum", string, string][] = [
         ...(site.telefon ? ([["Telefon", "telefon", site.telefonGosterim, `tel:${site.telefon}`]] as [string, "telefon" | "posta" | "konum", string, string][]) : []),
+        ...(digerHat ? ([["Telefon (2. Hat)", "telefon", digerHat.telefonGosterim, `tel:${digerHat.telefon}`]] as [string, "telefon" | "posta" | "konum", string, string][]) : []),
         ["E-posta", "posta", site.eposta, `mailto:${site.eposta}`],
         ["Bölge", "konum", site.bolge, "#"],
     ];

diff --git a/src/components/temalar/kutahya.tsx b/src/components/temalar/kutahya.tsx
@@ -1,6 +1,7 @@
 import Image from "next/image";
 import { hostBloglari } from "@/lib/blog";
 import type { SiteIcerik } from "@/lib/siteler";
+import { ikinciTelefon } from "@/lib/siteler";
 import { TemaForm } from "./tema-form";
 import type { TemaModulu } from "./tipler";
 
@@ -40,7 +41,7 @@ function Cerceve({ site, aktif = "", children }: Parameters<TemaModulu["Cerceve"
             <div className="mx-auto grid max-w-[1280px] gap-10 md:grid-cols-3">
                 <div><h2 className="font-['Montserrat'] text-[24px] font-bold">Kütahya Platform</h2><p className="mt-4 text-[14px] leading-5 text-[#c0c6de]">{site.uzmanlik} için doğru makine ve yazılı teklif planlaması.</p></div>
                 <div><h3 className="font-['Montserrat'] text-[20px] font-semibold text-[#67E8F9]">Hızlı Menü</h3><div className="mt-4 grid grid-cols-2 gap-3 text-[14px]">{nav.slice(1).map(([h, e]) => <a key={h} href={h} className="hover:text-[#67E8F9]">{e}</a>)}<a href={site.anaSite.url} className="hover:text-[#67E8F9]">{site.anaSite.ad}</a></div></div>
-                <div><h3 className="font-['Montserrat'] text-[20px] font-semibold text-[#67E8F9]">İletişim</h3><a href={`tel:${site.telefon}`} className="mt-4 flex gap-2"><Ikon ad="telefon" />{site.telefonGosterim}</a><a href={`mailto:${site.eposta}`} className="mt-3 flex gap-2 break-all"><Ikon ad="posta" />{site.eposta}</a></div>
+                <div><h3 className="font-['Montserrat'] text-[20px] font-semibold text-[#67E8F9]">İletişim</h3><a href={`tel:${site.telefon}`} className="mt-4 flex gap-2"><Ikon ad="telefon" />{site.telefonGosterim}</a>{ikinciTelefon(site) && (<a href={`tel:${ikinciTelefon(site)!.telefon}`} className="mt-3 flex gap-2"><Ikon ad="telefon" />{ikinciTelefon(site)!.telefonGosterim}</a>)}<a href={`mailto:${site.eposta}`} className="mt-3 flex gap-2 break-all"><Ikon ad="posta" />{site.eposta}</a></div>
             </div>
         <div className="mx-auto mt-8 max-w-7xl border-t border-white/10 pt-5 text-center text-xs text-white/50">
             <a href="https://www.saygitech.com" target="_blank" rel="noopener noreferrer" className="hover:text-white/80">

diff --git a/src/components/temalar/paylasilan/hero.tsx b/src/components/temalar/paylasilan/hero.tsx
@@ -1,4 +1,5 @@
 import type { SiteIcerik } from "@/lib/siteler";
+import { ikinciTelefon } from "@/lib/siteler";
 import { Ikon } from "./ikonlar";
 
 // Paylaşılan tema — ana sayfa hero bölümü. Component ağacı domain'ler arasında
@@ -11,11 +12,12 @@ export function Hero({ site }: { site: SiteIcerik }) {
     const h1Alt = h1Kelimeler.slice(ortaNokta).join(" ");
 
     const oneCikanHizmetler = site.hizmetler.slice(0, 2);
+    const digerHat = ikinciTelefon(site);
 
     return (
-        <section className="bg-gradient-to-br from-bg via-bg to-elevated pb-16 pt-20 lg:pb-24 lg:pt-28">
+        <section className="bg-gradient-to-br from-bg via-bg to-elevated pb-16 pt-8 lg:pb-24 lg:pt-12">
             <div className="mx-auto max-w-7xl px-5 md:px-8">
-                <div className="grid items-center gap-10 lg:grid-cols-12">
+                <div className="grid items-start gap-10 lg:grid-cols-12">
                     <div className="lg:col-span-7">
                         <span className="inline-flex items-center gap-2 rounded-full bg-accent px-4 py-2 text-[0.7rem] font-bold uppercase tracking-wide text-accent-fg">
                             <Ikon ad="yildirim" className="h-3.5 w-3.5" />
@@ -77,6 +79,11 @@ export function Hero({ site }: { site: SiteIcerik }) {
                                     ) : (
                                         <a href={`mailto:${site.eposta}`} className="block font-display text-xl font-black leading-tight text-primary">
                                             {site.eposta}
+                                        </a>
+                                    )}
+                                    {digerHat && (
+                                        <a href={`tel:${digerHat.telefon}`} className="mt-1 block font-display text-lg font-bold text-fg">
+                                            {digerHat.telefonGosterim}
                                         </a>
                                     )}
                                 </div>

diff --git a/src/lib/siteler.ts b/src/lib/siteler.ts
@@ -702,8 +702,8 @@ export const siteler: SiteIcerik[] = [
         hizmetler: ["Makaslı platform kiralama (8-22 m)", "Eklemli ve teleskopik platform kiralama (16-43 m)", "Liman ve tersane çalışmalarına uygun ekipman", "Günlük ve proje bazlı kiralama", "Nakliye ve İSG evrak organizasyonu"],
         anaSite: { ad: "Artı Platform", url: "https://www.artiplatform.com.tr" },
         bolge: "Bandırma, Erdek, Gönen, Biga",
-        telefon: "+905331728943",
-        telefonGosterim: "0533 172 89 43",
+        telefon: "+905321728943",
+        telefonGosterim: "0532 172 89 43",
         eposta: "kiralama@artiplatform.com.tr",
         uzmanlik: "liman, tersane, enerji ve fabrika bakım sahaları",
     },
@@ -1829,4 +1829,17 @@ for (const site of siteler) {
 export function hostIcinSite(host: string): SiteIcerik | undefined {
     const temiz = host.toLowerCase().replace(/^www\./, "").split(":")[0];
     return siteler.find((s) => s.host === temiz);
+}
+
+// Artı Platform'un iki sabit hattı. Her site tek birini `telefon` alanında
+// birincil olarak kullanır; bu fonksiyon diğerini ikincil hat olarak döner
+// (yalnızca gerçek Artı Platform siteleri için — haber siteleri, Simya Reklam
+// ve bilgi yayınları (Platform Akademisi) kendi iletişim kanallarını kullanır).
+const ARTI_HAT_A = { telefon: "+905305518961", gosterim: "0530 551 89 61" };
+const ARTI_HAT_B = { telefon: "+905321728943", gosterim: "0532 172 89 43" };
+
+export function ikinciTelefon(site: SiteIcerik): { telefon: string; telefonGosterim: string } | undefined {
+    if (site.telefon === ARTI_HAT_A.telefon) return { telefon: ARTI_HAT_B.telefon, telefonGosterim: ARTI_HAT_B.gosterim };
+    if (site.telefon === ARTI_HAT_B.telefon) return { telefon: ARTI_HAT_A.telefon, telefonGosterim: ARTI_HAT_A.gosterim };
+    return undefined;
 }

diff --git a/src/components/ticari-cerceve.tsx b/src/components/ticari-cerceve.tsx
@@ -2,6 +2,7 @@ import Link from "next/link";
 import Image from "next/image";
 import type { ReactNode } from "react";
 import type { SiteIcerik } from "@/lib/siteler";
+import { ikinciTelefon } from "@/lib/siteler";
 import { hostBloglari } from "@/lib/blog";
 
 function siteGorunumu(site: SiteIcerik) {
@@ -143,6 +144,7 @@ export function TicariGorsel({ site }: { site: SiteIcerik }) {
 export function TicariTeklif({ site }: { site: SiteIcerik }) {
     const gorunum = siteGorunumu(site);
     const bilgiSitesi = site.kategori === "egitim" || site.kategori === "rehber";
+    const digerHat = ikinciTelefon(site);
     return (
         <section className="relative overflow-hidden rounded-[2rem] bg-slate-950 px-6 py-12 text-center text-white shadow-2xl shadow-slate-950/20 sm:px-10">
             <div className="absolute -left-20 -top-24 size-72 rounded-full bg-blue-600/30 blur-3xl" />
@@ -162,6 +164,11 @@ export function TicariTeklif({ site }: { site: SiteIcerik }) {
                 {!bilgiSitesi && (
                     <a href={`tel:${site.telefon}`} className={`rounded-full px-6 py-3 font-black transition ${gorunum.buton}`}>
                         Ara · {site.telefonGosterim}
+                    </a>
+                )}
+                {!bilgiSitesi && digerHat && (
+                    <a href={`tel:${digerHat.telefon}`} className="rounded-full border border-white/40 px-6 py-3 font-bold text-white transition hover:bg-white/10">
+                        Ara · {digerHat.telefonGosterim}
                     </a>
                 )}
                 <a href={`mailto:${site.eposta}`} className="rounded-full border border-white/40 px-6 py-3 font-bold text-white transition hover:bg-white/10">

diff --git a/src/components/temalar/platformmanisa.tsx b/src/components/temalar/platformmanisa.tsx
@@ -1,6 +1,7 @@
 import Image from "next/image";
 import type { ReactNode } from "react";
 import type { SiteIcerik } from "@/lib/siteler";
+import { ikinciTelefon } from "@/lib/siteler";
 import { hostBloglari } from "@/lib/blog";
 import type { TemaModulu } from "./tipler";
 import { ManisaTeklifForm } from "./platformmanisa-form";
@@ -89,7 +90,7 @@ function Cerceve({ site, aktif, children }: { site: SiteIcerik; aktif?: string; 
                     </div>
                     <div className="flex flex-col gap-3">
                         <h4 className={`text-white ${caps} mb-2`}>İletişim</h4>
-                        <a className="text-[#c4c5d9] text-[15px] hover:text-[#b8c4ff] transition-all flex items-center gap-2" href={`tel:${site.telefon}`}><Ikon d={IK.phone} className="w-4 h-4" box={18} /> {site.telefonGosterim}</a>
+                        <a className="text-[#c4c5d9] text-[15px] hover:text-[#b8c4ff] transition-all flex items-center gap-2" href={`tel:${site.telefon}`}><Ikon d={IK.phone} className="w-4 h-4" box={18} /> {site.telefonGosterim}</a>{ikinciTelefon(site) && (<a className="text-[#c4c5d9] text-[15px] hover:text-[#b8c4ff] transition-all flex items-center gap-2 mt-2" href={`tel:${ikinciTelefon(site)!.telefon}`}><Ikon d={IK.phone} className="w-4 h-4" box={18} /> {ikinciTelefon(site)!.telefonGosterim}</a>)}
                         <a className="text-[#c4c5d9] text-[15px] hover:text-[#b8c4ff] transition-all flex items-center gap-2 break-all" href={`mailto:${site.eposta}`}><Ikon d={IK.mail} className="w-4 h-4" box={18} /> {site.eposta}</a>
                     </div>
                     <div className="md:col-span-4 mt-4 pt-8 border-t border-white/10 text-center">
